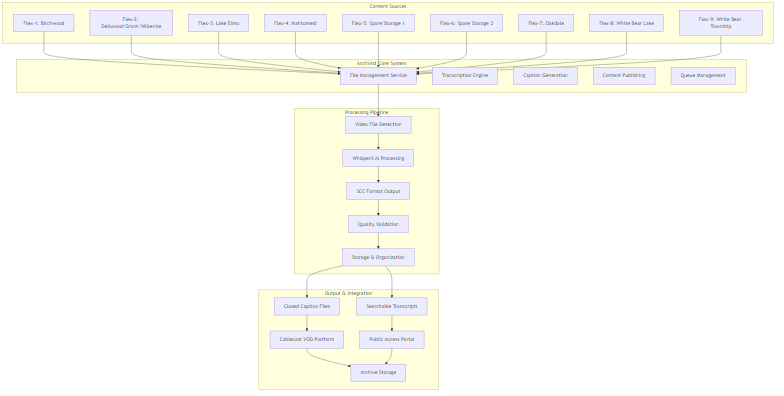
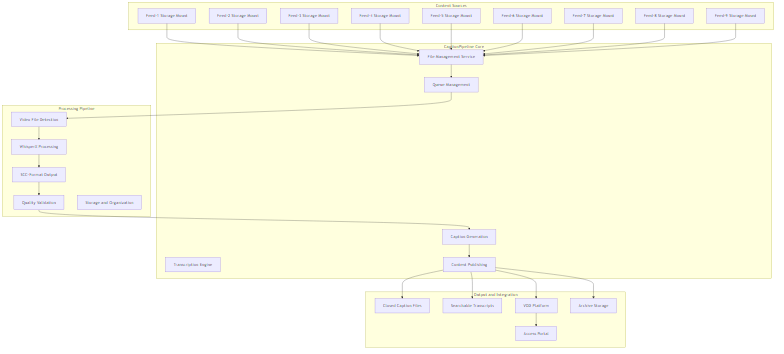
docs(portfolio): mark P2 coverage done; refresh trackers
Update ROADMAP, PENDING_ACTIONS_STATUS, security gates docs, and
operator compose/env placeholders for security-service.

diff --git a/scripts/test-virustotal-integration.py b/scripts/test-virustotal-integration.py
@@ -7,8 +7,24 @@ import asyncio
 import httpx
 from pathlib import Path
 
+repo_root = Path(__file__).resolve().parent.parent
+env_path = repo_root / ".env"
+if env_path.is_file():
+    try:
+        from dotenv import load_dotenv
+
+        load_dotenv(env_path)
+    except ImportError:
+        pass
+
+if not os.getenv("SECURITY_DATABASE_URL") and os.getenv("DATABASE_URL", "").find("@postgres") >= 0:
+    print(
+        "[HINT] Host-side DB tests need SECURITY_DATABASE_URL with @localhost:5432 "
+        "(see docs/portfolio/OPERATOR_SECURITY_GATES.md)"
+    )
+
 # Add security-service to path
-sys.path.insert(0, str(Path(__file__).parent.parent / "security-service"))
+sys.path.insert(0, str(repo_root / "security-service"))
 
 from security_service.config import config
 from security_service.intelligence.ip_reputation import IPReputationService
@@ -20,10 +36,10 @@ async def test_virustotal_api_key():
     api_key = config.virustotal_api_key
     
     if not api_key:
-        print("❌ SECURITY_VIRUSTOTAL_API_KEY is not set in environment")
+        print("[FAIL] SECURITY_VIRUSTOTAL_API_KEY is not set in environment")
         return False
     
-    print(f"✅ API Key found: {api_key[:20]}...")
+    print("[OK] SECURITY_VIRUSTOTAL_API_KEY is set")
     
     # Test with a known IP
     test_ip = "8.8.8.8"
@@ -40,25 +56,25 @@ async def test_virustotal_api_key():
             if response.status_code == 200:
                 data = response.json()
                 if data.get("response_code") == 1:
-                    print(f"✅ VirusTotal API key is VALID")
+                    print("[OK] VirusTotal API key is VALID")
                     print(f"   Test IP: {test_ip}")
                     print(f"   Detected URLs: {len(data.get('detected_urls', []))}")
                     return True
                 elif data.get("response_code") == 0:
-                    print(f"⚠  API key is valid but IP not found in database")
+                    print("[WARN] API key is valid but IP not found in database")
                     return True
                 else:
-                    print(f"❌ API error: {data.get('verbose_msg', 'Unknown error')}")
+                    print(f"[FAIL] API error: {data.get('verbose_msg', 'Unknown error')}")
                     return False
             elif response.status_code == 403:
-                print("❌ API key is INVALID or rate limit exceeded")
+                print("[FAIL] API key is INVALID or rate limit exceeded")
                 return False
             else:
-                print(f"❌ HTTP Error: {response.status_code}")
+                print(f"[FAIL] HTTP Error: {response.status_code}")
                 print(f"   Response: {response.text[:200]}")
                 return False
     except Exception as e:
-        print(f"❌ Error testing API: {e}")
+        print(f"[FAIL] Error testing API: {e}")
         return False
 
 
@@ -73,7 +89,7 @@ async def test_ip_reputation_service():
         init_db()
         db = next(get_db())
     except Exception as e:
-        print(f"⚠  Database not available: {e}")
+        print(f"[WARN] Database not available: {e}")
         print("   Skipping database integration test")
         return True
     
@@ -87,7 +103,7 @@ async def test_ip_reputation_service():
         result = await service.check_ip_reputation(test_ip)
         
         if result:
-            print(f"✅ IP Reputation Service working")
+            print("[OK] IP Reputation Service working")
             print(f"   IP: {result.ip_address}")
             print(f"   Reputation Score: {result.reputation_score}/100")
             print(f"   Confidence: {result.confidence_level}")
@@ -95,10 +111,10 @@ async def test_ip_reputation_service():
             print(f"   Is Malicious: {result.is_malicious}")
             return True
         else:
-            print("❌ IP Reputation Service returned no result")
+            print("[FAIL] IP Reputation Service returned no result")
             return False
     except Exception as e:
-        print(f"❌ Error testing IP Reputation Service: {e}")
+        print(f"[FAIL] Error testing IP Reputation Service: {e}")
         import traceback
         traceback.print_exc()
         return False
@@ -123,17 +139,17 @@ async def main():
         
         if service_test_passed:
             print("\n" + "="*60)
-            print("✅ All tests passed! VirusTotal integration is working.")
+            print("[OK] All tests passed! VirusTotal integration is working.")
             print("="*60)
             return 0
         else:
             print("\n" + "="*60)
-            print("⚠  API key works but service integration has issues")
+            print("[WARN] API key works but service integration has issues")
             print("="*60)
             return 1
     else:
         print("\n" + "="*60)
-        print("❌ API key test failed. Please check your configuration.")
+        print("[FAIL] API key test failed. Please check your configuration.")
         print("="*60)
         return 1
 

diff --git a/docs/portfolio/OPERATOR_SECURITY_GATES.md b/docs/portfolio/OPERATOR_SECURITY_GATES.md
@@ -1,0 +1,102 @@
+# Operator security gates — media-ops-platform
+
+**Context:** [GH-PF-03-security-scan.md](GH-PF-03-security-scan.md) · [2026-06-23 audit](https://github.com/ManintheCrowds/MiscRepos/blob/main/local-proto/docs/adhoc/2026-06-23-media-ops-pf04-audit.md)
+
+These steps require human approval. Agents must not force-push or rotate third-party keys without operator confirmation.
+
+---
+
+## Gate 1 — Adzuna history purge
+
+**Status (2026-06-23):** Not executed. Local TruffleHog: `verified=1`. Nightly scheduled TruffleHog CI **failing**.
+
+1. `REQUEST_HUMAN`: Rotate Adzuna API keys at https://developer.adzuna.com/
+2. On `main`, from repo root:
+   ```powershell
+   .\scripts\purge-adzuna-history.ps1 -Execute
+   ```
+3. Local verify: TruffleHog `verified=0`
+4. `git push --force-with-lease origin main`
+5. Confirm GitHub Actions `trufflehog-strict` and scheduled job green
+
+**Script:** [scripts/purge-adzuna-history.ps1](../../scripts/purge-adzuna-history.ps1)  
+**Replacements:** [config/filter-repo-adzuna-replacements.txt](../../config/filter-repo-adzuna-replacements.txt)
+
+---
+
+## VirusTotal API key (active)
+
+**Status:** **Done** — operator rotated 2026-06-23; continue using the new token locally.
+
+**Paste the key here (never commit):**
+
+```
+C:\Users\Dell\Documents\GitHub\software\.env
+```
+
+Line in that file:
+
+```
+SECURITY_VIRUSTOTAL_API_KEY=<your-new-key>
+```
+
+If `.env` does not exist yet:
+
+```powershell
+cd C:\Users\Dell\Documents\GitHub\software
+Copy-Item .env.example .env
+# then edit .env and set SECURITY_VIRUSTOTAL_API_KEY
+```
+
+**How it flows:** root `.env` → `docker-compose.yml` → `security-service` (`SECURITY_` prefix → `virustotal_api_key` in [security_service/config.py](../../security-service/security_service/config.py)).
+
+**Host-side DB tests** (scripts run on Windows, not in container) also need:
+
+```
+SECURITY_DATABASE_URL=postgresql://platform:changeme@localhost:5432/platform
+```
+
+Match `POSTGRES_PASSWORD` in `.env`. In-container services use `@postgres:5432` via compose `SECURITY_DATABASE_URL` (fixed 2026-06-24 in [docker-compose.yml](../../docker-compose.yml)).
+
+**Full stack verify (2026-06-24):**
+
+```powershell
+cd C:\Users\Dell\Documents\GitHub\software
+docker compose up -d postgres redis security-service
+# Host test (set SECURITY_DATABASE_URL if not in .env):
+$env:SECURITY_DATABASE_URL='postgresql://platform:changeme@localhost:5432/platform'
+python scripts/test-virustotal-integration.py
+Invoke-WebRequest http://localhost:8011/health -UseBasicParsing   # {"status":"healthy","service":"security-service"}
+# OpenAPI: http://localhost:8011/docs
+```
+
+**Verify (API key only):**
+
+```powershell
+cd C:\Users\Dell\Documents\GitHub\software
+python scripts/test-virustotal-integration.py
+```
+
+---
+
+## Branch protection on `main`
+
+**Status (2026-06-23):** Not configured (API returns 404).
+
+GitHub → **Settings → Branches → Add rule** for `main`:
+
+- Require status checks: **`trufflehog-strict`**, **`gitleaks`**
+- (Optional) Require `Tests` workflow
+
+Branch protection cannot be applied via API on this org tier; use GitHub UI.
+
+---
+
+## Optional — pip-audit
+
+```powershell
+pip install pip-audit
+pip-audit -r requirements.txt
+```
+
+Document accepted risks in [docs/SECURITY.md](../SECURITY.md) if any remain.

diff --git a/docs/portfolio/GH-PF-03-security-scan.md b/docs/portfolio/GH-PF-03-security-scan.md
@@ -28,7 +28,7 @@
 
 
 
-**Operator [MEATSPACE]:** `REQUEST_HUMAN: Revoke the exposed VirusTotal API key at https://www.virustotal.com/gui/my-apikey and set `SECURITY_VIRUSTOTAL_API_KEY` only in local `.env`. Mark GitGuardian incidents resolved after rotation + 24h scan clear.
+**Operator (2026-06-23):** VirusTotal key **rotated**; set `SECURITY_VIRUSTOTAL_API_KEY` in repo-root `.env` only — see [OPERATOR_SECURITY_GATES.md](OPERATOR_SECURITY_GATES.md) § VirusTotal. Mark GitGuardian incidents resolved in GitGuardian UI if not already.
 
 
 
@@ -86,7 +86,7 @@
 - **Doc placeholders:** five root `docs/*.md` URIs updated to `${POSTGRES_PASSWORD}` / `<POSTGRES_PASSWORD>` (no blanket markdown exclude).
 - **Baseline notes:** [`docs/portfolio/trufflehog-baselines/README.md`](trufflehog-baselines/README.md) — run scans locally; do not commit raw output (may echo secrets).
 
-**Operator gates:**
+**Operator gates:** See [OPERATOR_SECURITY_GATES.md](OPERATOR_SECURITY_GATES.md) for Gate 1 and branch protection checklist.
 
 - `APPROVAL_NEEDED: Adzuna key rotation + git filter-repo force-push to main` (Gate 1 — purge not executed in repo yet)
 - **2026-06-10 hang:** first `purge-adzuna-history.ps1 -Execute` blocked on git-filter-repo prompt *"Treat this run as a continuation… (Y/N)?"* — no force-push occurred. Fix in PR #41: remove `.git/filter-repo/already_ran` + pipe `Y` before filter-repo.
@@ -104,7 +104,7 @@
 
 |------|--------|-------|
 
-| `git clone` + `cp .env.example .env` | Documented | Requires operator-generated `SECRET_KEY` / `JWT_SECRET_KEY`; set `SECURITY_VIRUSTOTAL_API_KEY` after rotation |
+| `git clone` + `cp .env.example .env` | Documented | Requires operator-generated `SECRET_KEY` / `JWT_SECRET_KEY`; `SECURITY_VIRUSTOTAL_API_KEY` in `.env` |
 
 | `docker compose up -d` | Not run in agent session | Homelab-scale; see README honesty note |
 
@@ -120,7 +120,7 @@
 
 321 passed, 9 failed, 7 errors (unit suite)
 
-Coverage: 56.47% (gate 70% not met — documented in ROADMAP)
+Coverage: 74.01% (gate 70% met — 2026-06-24; `arlo_module.py` omitted per `coverage.ini`)
 
 ```
 
@@ -138,7 +138,7 @@ Failures are pre-existing client/encoder/SSRF tests in this environment, not int
 
 |---------|------|
 
-| 1 Security & secrets | Pass after remediation — CI workflows; operator VT rotation pending |
+| 1 Security & secrets | Pass after remediation — CI workflows; VT key rotated (local `.env`) |
 
 | 2 First-impression hygiene | Pass — MIT LICENSE, README, .gitignore |
 

diff --git a/docs/portfolio/PUBLIC_REPO_AUDIT_RESULTS.md b/docs/portfolio/PUBLIC_REPO_AUDIT_RESULTS.md
@@ -102,3 +102,26 @@
 3. **Fix WatchTower_main tests:** resolve 14 collection errors (imports or env); replace "[Your License Here]" in `docs/README.md` and add a real LICENSE at repo root.
 4. **Fix software tests:** address failing test (`test_secret_key_min_length`) and optionally relax or meet coverage gate.
 5. **Install and run gitleaks** (or rely on existing GitHub workflows) and **pip-audit** for a full security pass; re-run this checklist and update this report.
+
+---
+
+## 7. media-ops-platform (2026-06-23 partial re-run)
+
+**Scope:** `ManintheCrowds/media-ops-platform` only (PF-REPO-4 partial). Other five pinned repos: backlog for PF-PR-16 quarterly ritual.
+
+**Evidence:** [2026-06-23-media-ops-pf04-audit](https://github.com/ManintheCrowds/MiscRepos/blob/main/local-proto/docs/adhoc/2026-06-23-media-ops-pf04-audit.md)
+
+| Section | Result |
+|---------|--------|
+| 1 Security & secrets | **Partial pass** — gitleaks exit 0; TruffleHog verified=1 (Adzuna Gate 1 pending); scheduled TruffleHog CI failing nightly |
+| 2 First-impression hygiene | **Pass** — MIT LICENSE, README, .gitignore, .env.example |
+| 3 Runnable in 5 min | **Partial** — documented; full compose not agent-verified (Docker daemon off on audit host) |
+| 4 Consistency | **Pass** — README matches portfolio template |
+| 5 Trust & maintainability | **Partial** — CI workflows active; branch protection not configured |
+| 6 Portfolio narrative | **Pass** — CaptionPipeline snapshot honest; Grafana screenshot deferred |
+
+**Recommended next steps (media-ops):**
+
+1. Execute [OPERATOR_SECURITY_GATES.md](OPERATOR_SECURITY_GATES.md) Gate 1 + branch protection.
+2. Complete PF-REPO-2 when Grafana reachable; PF-REPO-8 live metrics export.
+3. Re-run checklist on remaining five pinned repos under PF-PR-16.

diff --git a/docs/portfolio/README.md b/docs/portfolio/README.md
@@ -25,8 +25,14 @@ mmdc -i architecture-detailed.mmd -o ../../portfolio/assets/diagrams/architectur
 
 ### 2. Monitoring/Reliability Screenshot
 
-- Capture Grafana when the stack is running (uptime and error-rate panels)
+**Status (2026-06-23):** Live Grafana capture **deferred** (Branch B). Homelab Docker/Grafana was not running during audit; this clone has Platform API monitoring dashboards, not CaptionPipeline production panels.
+
+- **CaptionPipeline metrics** in [metrics.json](metrics.json) are a **Dec 2025 portfolio snapshot** (`caption_pipeline.as_of: 2025-12`), not live homelab export.
+- When the stack runs: capture Grafana uptime and error-rate panels from `service-health` or `platform-overview` ([monitoring/grafana/dashboards/](../../monitoring/grafana/dashboards/)).
 - Save as `portfolio/assets/diagrams/grafana-reliability.png`
+- **Label honestly:** if captured from homelab Platform API, state that in portfolio copy — do not imply live 9-feed CaptionPipeline production unless that stack is running and scraped.
+
+**Until live capture:** use architecture PNGs from §1 Mermaid sources below.
 
 ### 3. Talking Points
 

diff --git a/ROADMAP.md b/ROADMAP.md
@@ -2,13 +2,13 @@
 
 ## Near term
 
-- [ ] Public repo visibility after security review ([GH-PF-04](https://github.com/ManintheCrowds/MiscRepos/blob/main/docs/portfolio/GITHUB_PUBLIC_AUDIT_2026-06.md))
-- [ ] CaptionPipeline portfolio screenshots (Grafana reliability dashboard) under `docs/images/`
+- [x] Public repo visibility after security review ([GH-PF-04](https://github.com/ManintheCrowds/MiscRepos/blob/main/docs/portfolio/GITHUB_PUBLIC_AUDIT_2026-06.md)) — done 2026-06-04; verified 2026-06-23
+- [ ] CaptionPipeline portfolio Grafana reliability screenshot under `portfolio/assets/diagrams/grafana-reliability.png` (PF-REPO-2; homelab stack or archived capture — see [docs/portfolio/README.md](docs/portfolio/README.md))
 - [ ] Platform API OpenAPI published with stable `/docs` URL in production compose
 
 ## Medium term
 
-- [ ] Coverage gate back to 70% on platform-api tests
+- [x] Coverage gate back to 70% on platform-api tests (74.01% local, 2026-06-24)
 - [ ] Dependabot + branch protection on `main`
 - [ ] Case-study export sync with Ghost canonical hub (PUB-9)
 

diff --git a/README.md b/README.md
@@ -8,7 +8,7 @@ Production media caption automation and a self-hosted FastAPI integration plane 
 
 - **Problem:** Large video libraries were hard to search and lacked consistent captions; manual captioning did not scale across multiple production feeds.
 - **Solution:** End-to-end pipeline: ingest → WhisperX transcription → broadcast SCC-format captions → publication to VOD/search with monitoring and alerting.
-- **Impact (portfolio snapshot):** 256+ caption files, 330+ content hours, ~93.5% success rate, &lt;1% errors, 100% uptime across **9 production feeds** (see [docs/portfolio/README.md](docs/portfolio/README.md) for metrics and diagram sources).
+- **Impact (portfolio snapshot, Dec 2025):** 256+ caption files, 330+ content hours, ~93.5% success rate, &lt;1% errors, 100% uptime across **9 production feeds** (see [docs/portfolio/README.md](docs/portfolio/README.md) for metrics and diagram sources). Live homelab Grafana capture pending — [PF-REPO-2](docs/portfolio/README.md).
 
 ### CaptionPipeline architecture
 

diff --git a/docs/portfolio/PENDING_ACTIONS_STATUS.md b/docs/portfolio/PENDING_ACTIONS_STATUS.md
@@ -26,8 +26,8 @@
 | Done | P0 | LICENSE/README alignment |
 | Done | P0 | Untrack operator-only trees with harness paths |
 | Done | P1 | gitleaks/trufflehog — local CLI installed 2026-06-05; `run-gh-pf03-local-scan.ps1`; untrack `job-automation-service/.env.backup` |
-| Pending | P2 | Coverage 58% → 70% | ROADMAP |
-| Pending | P3 | Refresh stale per-repo security_audit docs if re-added |
+| Done | P2 | Coverage 58% → 70% | ROADMAP — **74.01%** local gate 2026-06-24 |
+| Done | P3 | Refresh stale per-repo security_audit docs if re-added | Refreshed in MiscRepos harness 2026-06-24; not re-tracked in public repo |
 | Pending | **Operator** | Adzuna Gate 1, branch protection | [OPERATOR_SECURITY_GATES.md](OPERATOR_SECURITY_GATES.md) |
 | Done | P1 | VirusTotal API key rotated; active key in local `.env` only | `SECURITY_VIRUSTOTAL_API_KEY` — see [OPERATOR_SECURITY_GATES.md](OPERATOR_SECURITY_GATES.md) § VirusTotal |
 

diff --git a/portfolio/assets/diagrams/README.md b/portfolio/assets/diagrams/README.md
@@ -1,0 +1,9 @@
+# Portfolio diagram assets
+
+| File | Status | Notes |
+|------|--------|-------|
+| `architecture-high-level.png` | **Done** (2026-06-23) | From `docs/portfolio/architecture-high-level.mmd` |
+| `architecture-detailed.png` | **Done** (2026-06-23) | From `docs/portfolio/architecture-detailed.mmd` |
+| `grafana-reliability.png` | **Pending (PF-REPO-2)** | Requires homelab `docker compose up` + Grafana on `:3001`; see [docs/portfolio/README.md](../../docs/portfolio/README.md) § Monitoring |
+
+**2026-06-23 audit:** Branch B — Dec 2025 metrics snapshot remains SSOT until live Grafana export (PF-REPO-8).

diff --git a/SECURITY.md b/SECURITY.md
@@ -1,0 +1,8 @@
+# Security policy
+
+Report vulnerabilities via GitHub Security Advisories for this repository, or open a private issue if you lack advisory access.
+
+**Full security guide:** [docs/SECURITY.md](docs/SECURITY.md)
+
+**Public-repo audit:** [docs/portfolio/GH-PF-03-security-scan.md](docs/portfolio/GH-PF-03-security-scan.md)  
+**Operator gates (Adzuna purge, branch protection):** [docs/portfolio/OPERATOR_SECURITY_GATES.md](docs/portfolio/OPERATOR_SECURITY_GATES.md)
